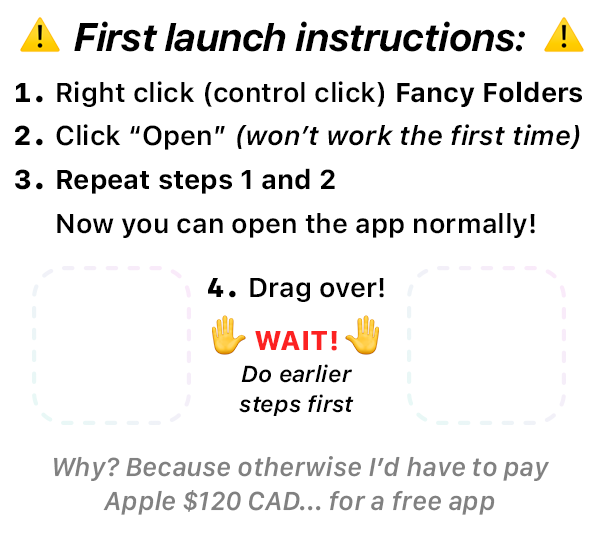
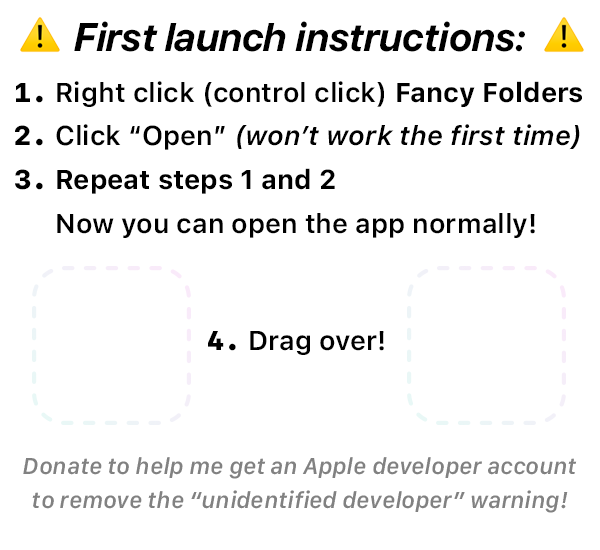
Updated dmg background to be less scary

Changed region(s): [[0.33, 0.4945, 0.66, 0.7727], [0.03, 0.8345, 0.96, 0.9273]]

diff --git a/fancyfolders/image_transformations.py b/fancyfolders/image_transformations.py
@@ -244,7 +244,6 @@ def _normalized_image(image: Image, steepness=0.12):
       Image: PIL Image (L) that has been normalized
   """
   min_value, max_value = image.getextrema()
-  print("min", min_value, "max", max_value)
 
   def sigmoid_normalize(value):
     normalized_value = int((value-min_value)*255/(max_value-min_value))
